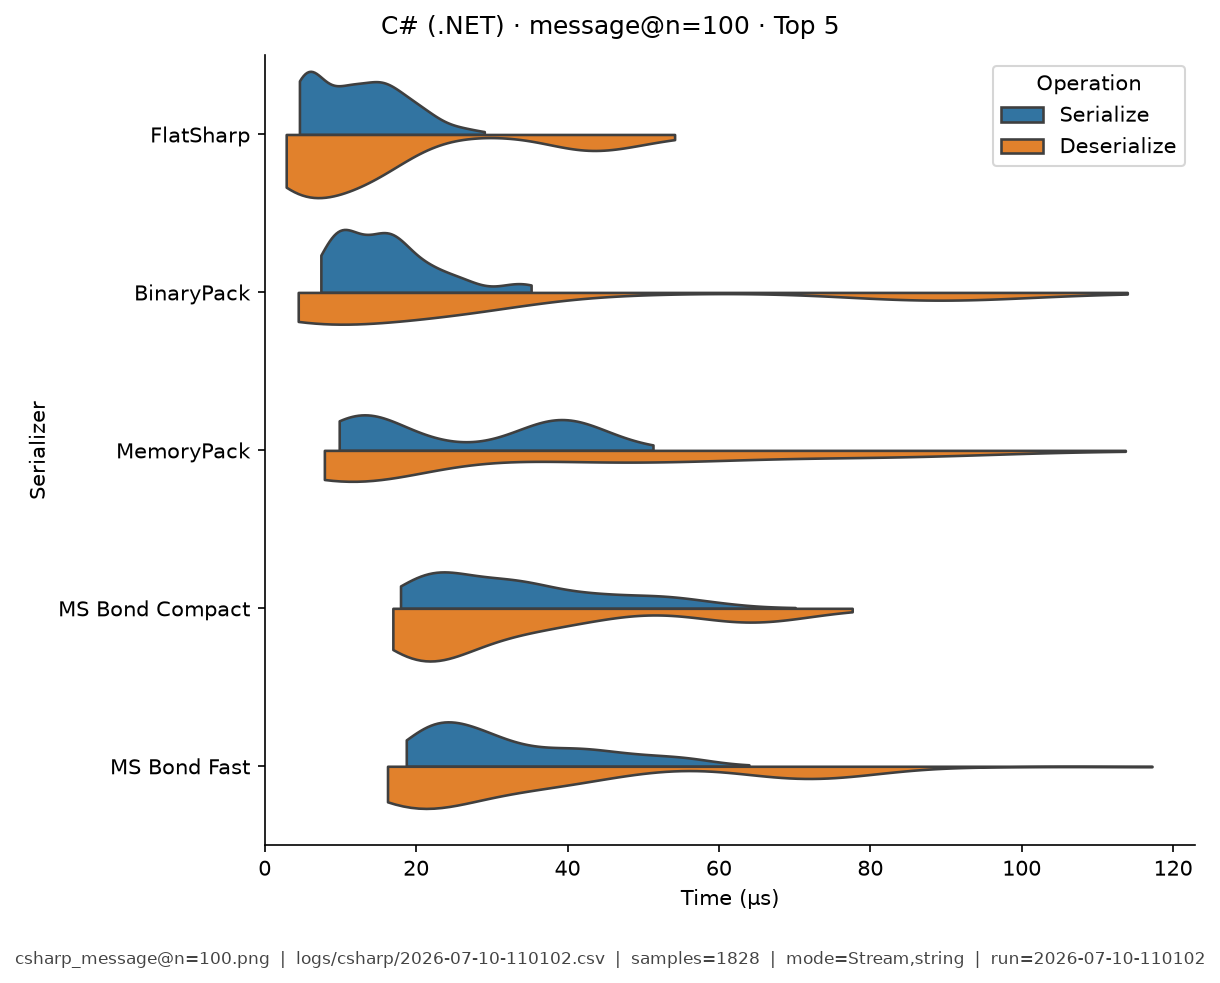
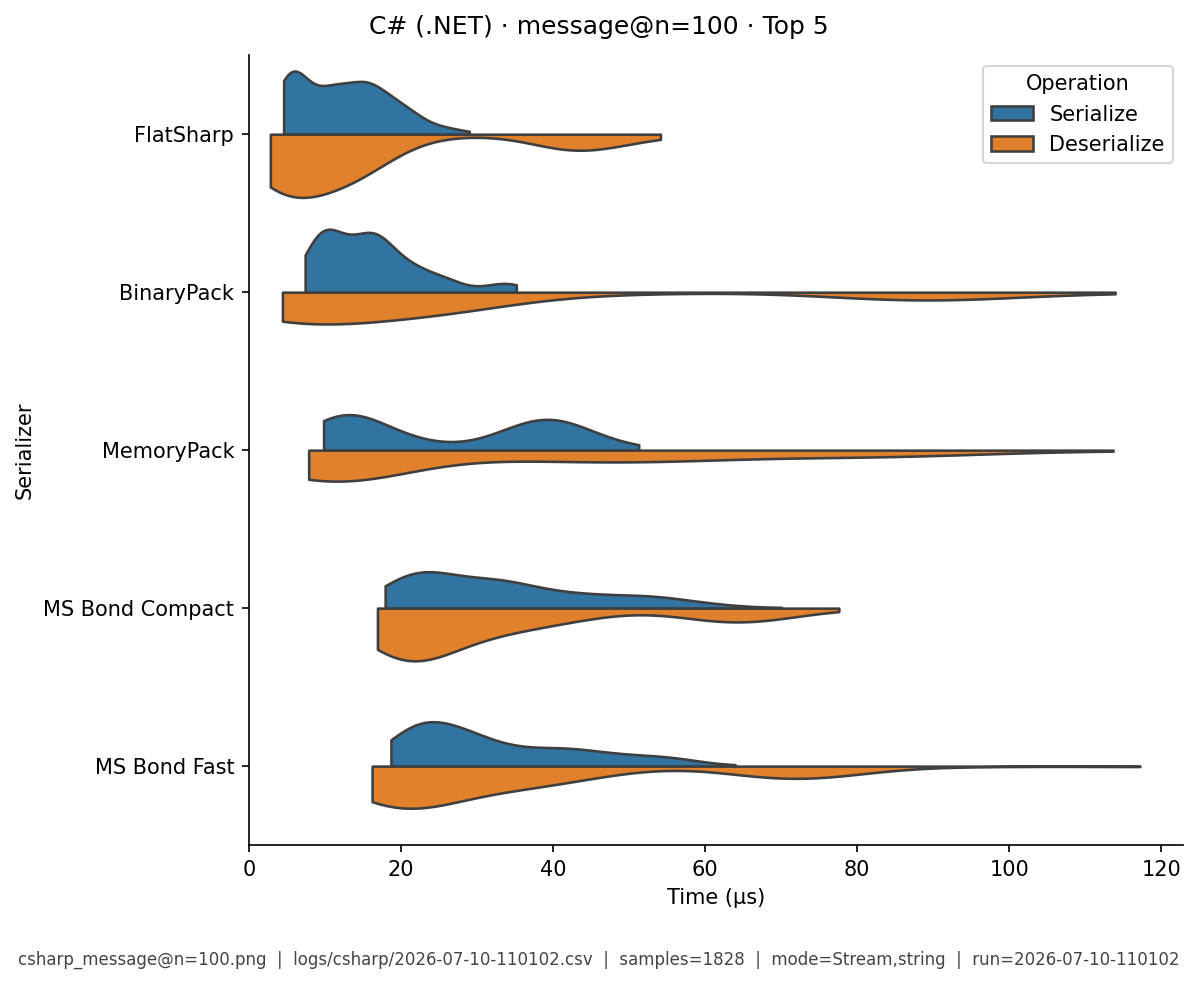
fix(analysis): map C# string mode into bytes columns.
Total Time pivot looked only for mode=="bytes", so C# harness values
"string"/"Stream" left bytes mode empty. Normalize string/buffer→bytes
like the dashboard; regenerate C# results.

diff --git a/analysis/src/benchmark_analysis/reports.py b/analysis/src/benchmark_analysis/reports.py
@@ -259,14 +259,29 @@ VIOLIN_TOP_N_SERIALIZERS = 5
 _MODE_DISPLAY = {
     "bytes": "bytes mode",
     "stream": "stream mode",
-    "string": "string mode",
+    "string": "bytes mode",  # C#/some harnesses log "string" for the buffer API
+    "buffer": "bytes mode",
 }
+
+
+def _normalize_mode(mode: str) -> str:
+    """Canonical harness API mode: bytes (in-memory buffer) | stream.
+
+    Aligns with dashboard ``normalizeMode``: CSV may say ``string`` / ``Stream``
+    / ``bytes`` / ``buffer`` depending on language harness.
+    """
+    key = (mode or "").strip().lower()
+    if key in ("bytes", "string", "buffer"):
+        return "bytes"
+    if key == "stream":
+        return "stream"
+    return key
 
 
 def _display_mode(mode: str) -> str:
     """Label harness API mode so it is not confused with payload size."""
-    key = (mode or "").strip().lower()
-    return _MODE_DISPLAY.get(key, mode)
+    key = _normalize_mode(mode)
+    return _MODE_DISPLAY.get(key, mode or key)
 
 
 def _pick_column_unit(values: list) -> tuple:
@@ -577,7 +592,7 @@ def _category_pivot_md(stats: Dict, lang_id: str, title: str) -> str:
     for e in entries:
         if not isinstance(e, dict):
             continue
-        mode = (e.get("mode") or e.get("StringOrStream") or "").lower()
+        mode = _normalize_mode(e.get("mode") or e.get("StringOrStream") or "")
         if mode != "bytes":
             continue
         ser = e.get("serializer") or e.get("SerializerName") or ""
@@ -897,10 +912,16 @@ def _total_time_pivot_table_md(stats: Dict) -> str:
             return float(v) / 1000.0
         return None
 
+    def _entry_for_mode(entries, want: str):
+        return next(
+            (e for e in entries if _normalize_mode(str(e.get("mode") or "")) == want),
+            None,
+        )
+
     for ser in serializers:
         entries = by_ser[ser]
-        bytes_entry = next((e for e in entries if str(e.get("mode")).lower() == "bytes"), None)
-        stream_entry = next((e for e in entries if str(e.get("mode")).lower() == "stream"), None)
+        bytes_entry = _entry_for_mode(entries, "bytes")
+        stream_entry = _entry_for_mode(entries, "stream")
 
         bm_val = _get_val(bytes_entry, "avg_time_total_ns")
         bmed_val = _get_val(bytes_entry, "total_median_ns")
@@ -929,8 +950,8 @@ def _total_time_pivot_table_md(stats: Dict) -> str:
                 break
         display_name = f"{ser}:{version}" if version else ser
 
-        bytes_entry = next((e for e in entries if str(e.get("mode")).lower() == "bytes"), None)
-        stream_entry = next((e for e in entries if str(e.get("mode")).lower() == "stream"), None)
+        bytes_entry = _entry_for_mode(entries, "bytes")
+        stream_entry = _entry_for_mode(entries, "stream")
 
         bm_val = _get_val(bytes_entry, "avg_time_total_ns")
         bmed_val = _get_val(bytes_entry, "total_median_ns")

diff --git a/docs/c-sharp/results.md b/docs/c-sharp/results.md
@@ -1,6 +1,6 @@
 # C# (.NET) — Benchmark Results
 
-**Generated:** 2026-07-10T11:03:44.988010
+**Generated:** 2026-07-10T11:12:02.617836
 
 Published **local snapshot** (not regenerated by GitHub Actions). Numbers may differ if you re-run benchmarks on another machine.
 
@@ -58,42 +58,42 @@ Default multi-serializer view shows **high-importance** metrics only ([METRICS.m
 
 | serializer | bytes mode/mean | bytes mode/median | stream mode/mean | stream mode/median |
 |---|---|---|---|---|
-| FlatSharp:7.5.1 | - | - | 14.4 | 14 |
-| BinaryPack:1.0.3 | - | - | **6.48** | **6.4** |
-| MemoryPack | - | - | 10.5 | 10.2 |
-| ZeroFormatter:1.6.4 | - | - | 8.95 | 8.66 |
-| MS Bond Compact:.NET 8.0.28 | - | - | 15.4 | 15 |
-| MS Bond Fast:.NET 8.0.28 | - | - | 12.6 | 12.2 |
-| GroBuf:1.9.2 | - | - | 19.8 | 19.3 |
-| Google.Protobuf:3.35.1 | - | - | 10.6 | 10.1 |
-| NetSerializer:4.1.2 | - | - | 6.65 | 6.42 |
-| ProtoBuf:2.4.9.1 | - | - | 16.8 | 16.1 |
-| Ceras:4.1.7 | - | - | 35.8 | 34.7 |
-| Migrant:0.13.0.0 | - | - | 116 | 111 |
-| SpanJson:4.2.1 | - | - | 12 | 11.8 |
-| Hyperion:0.12.2 | - | - | 14.8 | 14.1 |
-| ExtendedXmlSerializer:3.10.0.0 | - | - | 122 | 116 |
-| FsPickler:5.3.2 | - | - | 36.3 | 35.4 |
-| Utf8Json:1.3.7 | - | - | 20.9 | 20.4 |
-| NetJSON:1.0.0 | - | - | 17.5 | 16.8 |
-| MS Bond Json:.NET 8.0.28 | - | - | 23.3 | 23.1 |
-| System.Text.Json:8.0.0.0 | - | - | 55.5 | 51.3 |
-| Jil:2.17.0 | - | - | 19.1 | 18.7 |
-| ServiceStack:6.11.0 | - | - | 23.7 | 23.5 |
-| FsPicklerJson:5.3.2 | - | - | 39.6 | 39.2 |
-| Json.Net:13.0.4 | - | - | 19.9 | 19.8 |
-| Json.Net (Helper):13.0.4 | - | - | 46.3 | 45.7 |
-| ServiceStack Json:6.11.0 | - | - | 41.2 | 39.8 |
-| fastJson:2.4.0.4 | - | - | 45.3 | 44.6 |
-| MS Binary:.NET 8.0.28 | - | - | 54 | 51.5 |
-| MS DataContract:.NET 8.0.28 | - | - | 62.6 | 61 |
-| MS XmlSerializer:.NET 8.0.28 | - | - | 57.8 | 57.2 |
-| MS DataContract Json:.NET 8.0.28 | - | - | 39.5 | 38.9 |
-| SharpYaml:3.12.0 | - | - | 310 | 307 |
-| CsvHelper:33.1.0 | - | - | 1.41e+03 | 1.4e+03 |
-| YAXLib:4.4.0 | - | - | 433 | 430 |
-| SharpSerializer | - | - | 96.8 | 91.2 |
-| YamlDotNet:17.1.0 | - | - | 292 | 293 |
+| FlatSharp:7.5.1 | 17.4 | 16.3 | 14.4 | 14 |
+| BinaryPack:1.0.3 | 6.89 | 6.71 | **6.48** | **6.4** |
+| MemoryPack | 10.9 | 10.3 | 10.5 | 10.2 |
+| ZeroFormatter:1.6.4 | 9.52 | 9.25 | 8.95 | 8.66 |
+| MS Bond Compact:.NET 8.0.28 | 8.31 | 8.11 | 15.4 | 15 |
+| MS Bond Fast:.NET 8.0.28 | **5.37** | **5.29** | 12.6 | 12.2 |
+| GroBuf:1.9.2 | 17.5 | 17.6 | 19.8 | 19.3 |
+| Google.Protobuf:3.35.1 | 12.2 | 11.8 | 10.6 | 10.1 |
+| NetSerializer:4.1.2 | 7.97 | 7.71 | 6.65 | 6.42 |
+| ProtoBuf:2.4.9.1 | 18 | 17.5 | 16.8 | 16.1 |
+| Ceras:4.1.7 | 36.5 | 35.5 | 35.8 | 34.7 |
+| Migrant:0.13.0.0 | 112 | 110 | 116 | 111 |
+| SpanJson:4.2.1 | 11.6 | 11.2 | 12 | 11.8 |
+| Hyperion:0.12.2 | 17.3 | 16.5 | 14.8 | 14.1 |
+| ExtendedXmlSerializer:3.10.0.0 | 126 | 125 | 122 | 116 |
+| FsPickler:5.3.2 | 36.3 | 34 | 36.3 | 35.4 |
+| Utf8Json:1.3.7 | 22.9 | 22.6 | 20.9 | 20.4 |
+| NetJSON:1.0.0 | 15.6 | 15.5 | 17.5 | 16.8 |
+| MS Bond Json:.NET 8.0.28 | 20.7 | 20.3 | 23.3 | 23.1 |
+| System.Text.Json:8.0.0.0 | 54.3 | 53.4 | 55.5 | 51.3 |
+| Jil:2.17.0 | 19.7 | 19.2 | 19.1 | 18.7 |
+| ServiceStack:6.11.0 | 22 | 21.2 | 23.7 | 23.5 |
+| FsPicklerJson:5.3.2 | 43.7 | 42.7 | 39.6 | 39.2 |
+| Json.Net:13.0.4 | 16.4 | 16.7 | 19.9 | 19.8 |
+| Json.Net (Helper):13.0.4 | 43.5 | 42.5 | 46.3 | 45.7 |
+| ServiceStack Json:6.11.0 | 39.5 | 39.4 | 41.2 | 39.8 |
+| fastJson:2.4.0.4 | 41.6 | 40.8 | 45.3 | 44.6 |
+| MS Binary:.NET 8.0.28 | 54.7 | 53.2 | 54 | 51.5 |
+| MS DataContract:.NET 8.0.28 | 65.2 | 64.7 | 62.6 | 61 |
+| MS XmlSerializer:.NET 8.0.28 | 60.5 | 59.6 | 57.8 | 57.2 |
+| MS DataContract Json:.NET 8.0.28 | 41 | 39.5 | 39.5 | 38.9 |
+| SharpYaml:3.12.0 | 277 | 284 | 310 | 307 |
+| CsvHelper:33.1.0 | 1.43e+03 | 1.41e+03 | 1.41e+03 | 1.4e+03 |
+| YAXLib:4.4.0 | 400 | 394 | 433 | 430 |
+| SharpSerializer | 97.6 | 94.8 | 96.8 | 91.2 |
+| YamlDotNet:17.1.0 | 287 | 286 | 292 | 293 |
 
 
 ### Ops/Sec
